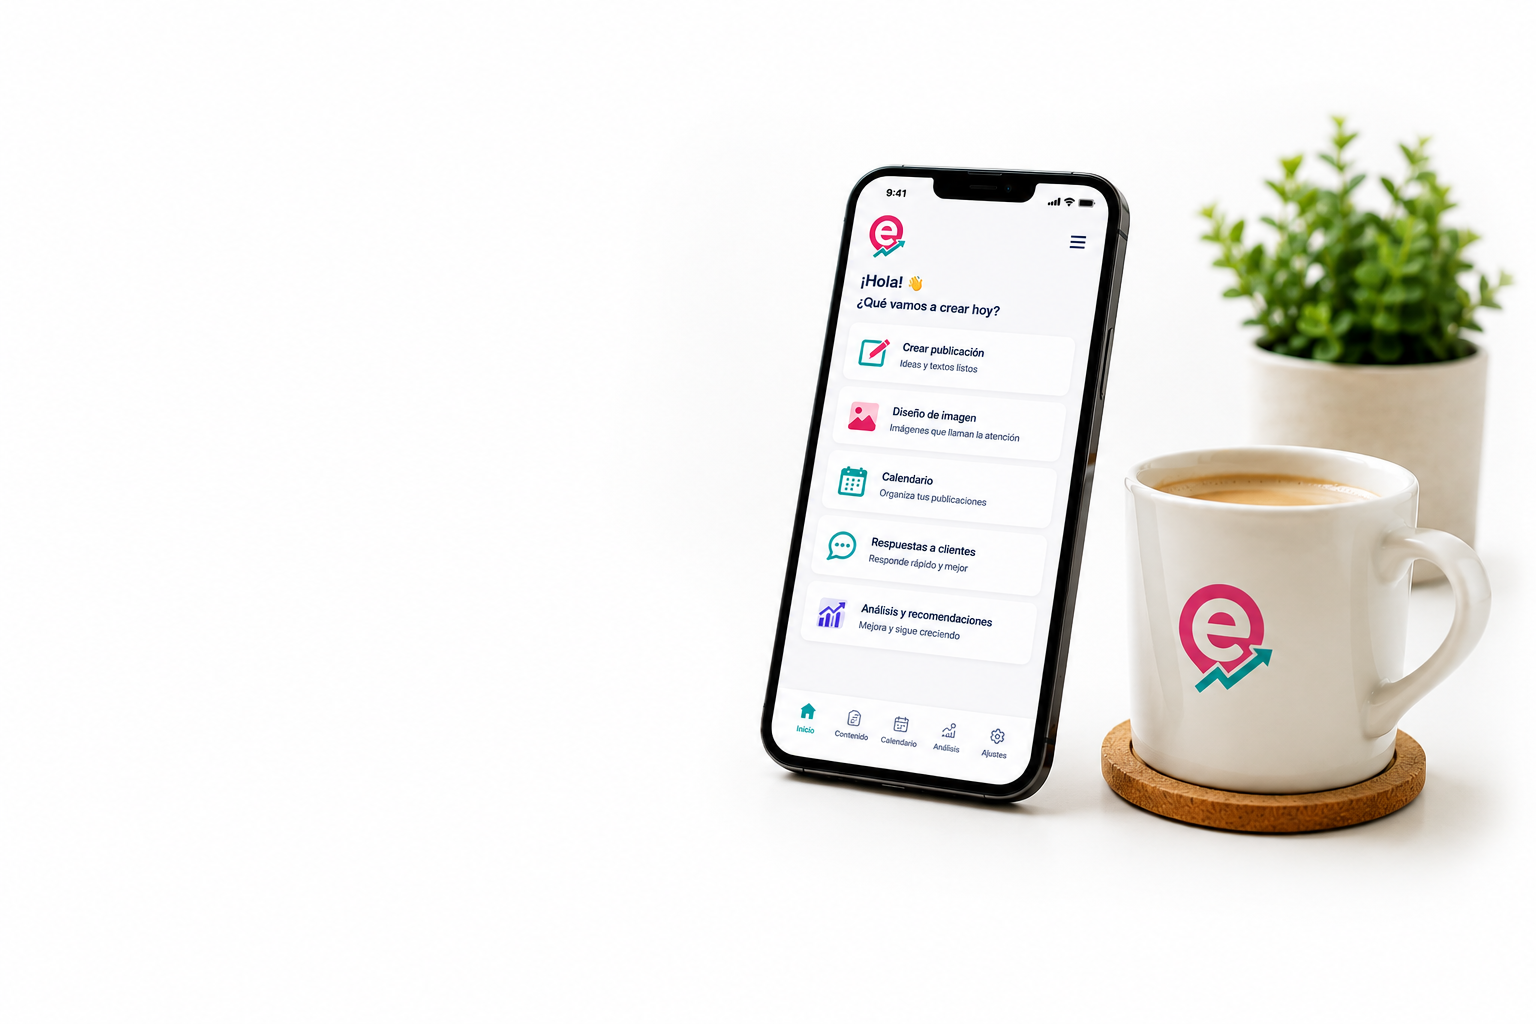
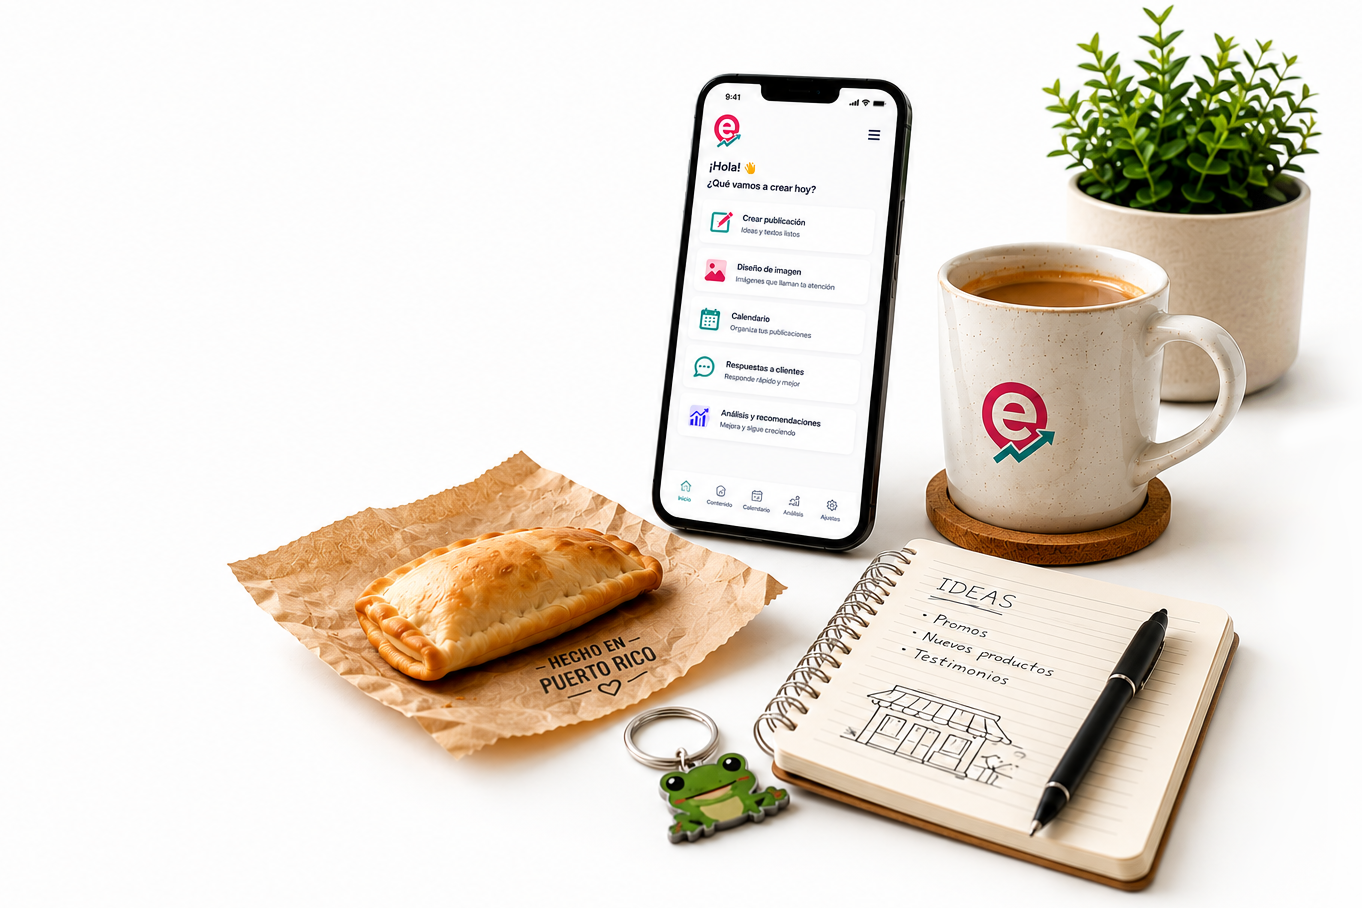
Landing: nueva foto de hero (boricua) + burbuja arriba + copy de plan
- Reemplaza la foto del hero de desktop (empanadilla, cafe, libreta IDEAS,
  coqui "Hecho en Puerto Rico").
- Sube la burbuja "Tu negocio en buenas manos" (top 155->52px) para que se
  vea el cafe completo.
- "Ver planes desde $X/mes" -> "Ver el plan · $X/mes" y "Planes desde" ->
  "Un solo plan" (hay un solo plan; evita sugerir tiers que no existen).

diff --git a/crecer.php b/crecer.php
@@ -102,7 +102,7 @@ $nf = fn($n) => number_format((int)$n);
       linear-gradient(180deg,#000 0,#000 90%,transparent 100%);
     mask-composite:intersect}
   .hero-photo::after{content:"";position:absolute;inset:auto 0 0;height:34%;background:linear-gradient(180deg,transparent,var(--paper));pointer-events:none}
-  .photo-bubble{position:absolute;right:18px;top:155px;border:3px solid var(--teal);border-radius:50%;padding:18px 26px;background:rgba(255,253,249,.78);font-family:var(--hand);font-size:27px;line-height:1.05;text-align:center;transform:rotate(5deg);z-index:3}
+  .photo-bubble{position:absolute;right:18px;top:52px;border:3px solid var(--teal);border-radius:50%;padding:18px 26px;background:rgba(255,253,249,.78);font-family:var(--hand);font-size:27px;line-height:1.05;text-align:center;transform:rotate(5deg);z-index:3}
   .photo-bubble::after{content:"";position:absolute;left:26px;bottom:-20px;width:34px;height:24px;border-left:3px solid var(--teal);border-bottom:3px solid var(--teal);border-radius:0 0 0 30px;transform:rotate(-20deg)}
   .features{padding:46px 0 30px;border-top:1px solid var(--line)}
   .features h2{text-align:center;font-family:var(--hand);font-size:34px;line-height:1;color:var(--ink);margin:0 0 28px;text-transform:uppercase}
@@ -245,7 +245,7 @@ $nf = fn($n) => number_format((int)$n);
         <p class="lede"><b>Encuéntralo Crecer</b> es tu asistente de inteligencia artificial que te ayuda a atraer clientes, ahorrar tiempo y <strong>hacer crecer tu negocio.</strong></p>
         <div class="hero-actions">
           <a class="cta" href="/crecer/registro.php">Crear mi primer post</a>
-          <a class="secondary" href="#planes">Ver planes desde $<?= (int)$precio_crecer ?>/mes</a>
+          <a class="secondary" href="#planes">Ver el plan · $<?= (int)$precio_crecer ?>/mes</a>
         </div>
 
         <div class="pain-note">
@@ -277,7 +277,7 @@ $nf = fn($n) => number_format((int)$n);
         <p class="hero-mobile__description"><strong class="text-magenta">Encuéntralo Crecer</strong> es tu asistente de inteligencia artificial que te ayuda a atraer clientes, ahorrar tiempo y <strong class="text-teal">hacer crecer tu negocio.</strong></p>
         <div class="hero-mobile__actions">
           <a class="button button--primary" href="/crecer/registro.php">Crear mi primer post</a>
-          <a class="hero-mobile__plans-link" href="#planes">Ver planes desde $<?= (int)$precio_crecer ?>/mes</a>
+          <a class="hero-mobile__plans-link" href="#planes">Ver el plan · $<?= (int)$precio_crecer ?>/mes</a>
         </div>
       </div>
 
@@ -342,7 +342,7 @@ $nf = fn($n) => number_format((int)$n);
       <aside class="price-card">
         <div class="hand">Bueno, bonito<br>y asequible</div>
         <div class="line"></div>
-        <div class="desde">Planes desde</div>
+        <div class="desde">Un solo plan</div>
         <div class="price">$<?= (int)$precio_crecer ?><small>/mes</small></div>
         <p>Hecho para emprendedores como tú.</p>
         <a class="price-cta" href="/crecer/registro.php">Empezar gratis</a>
